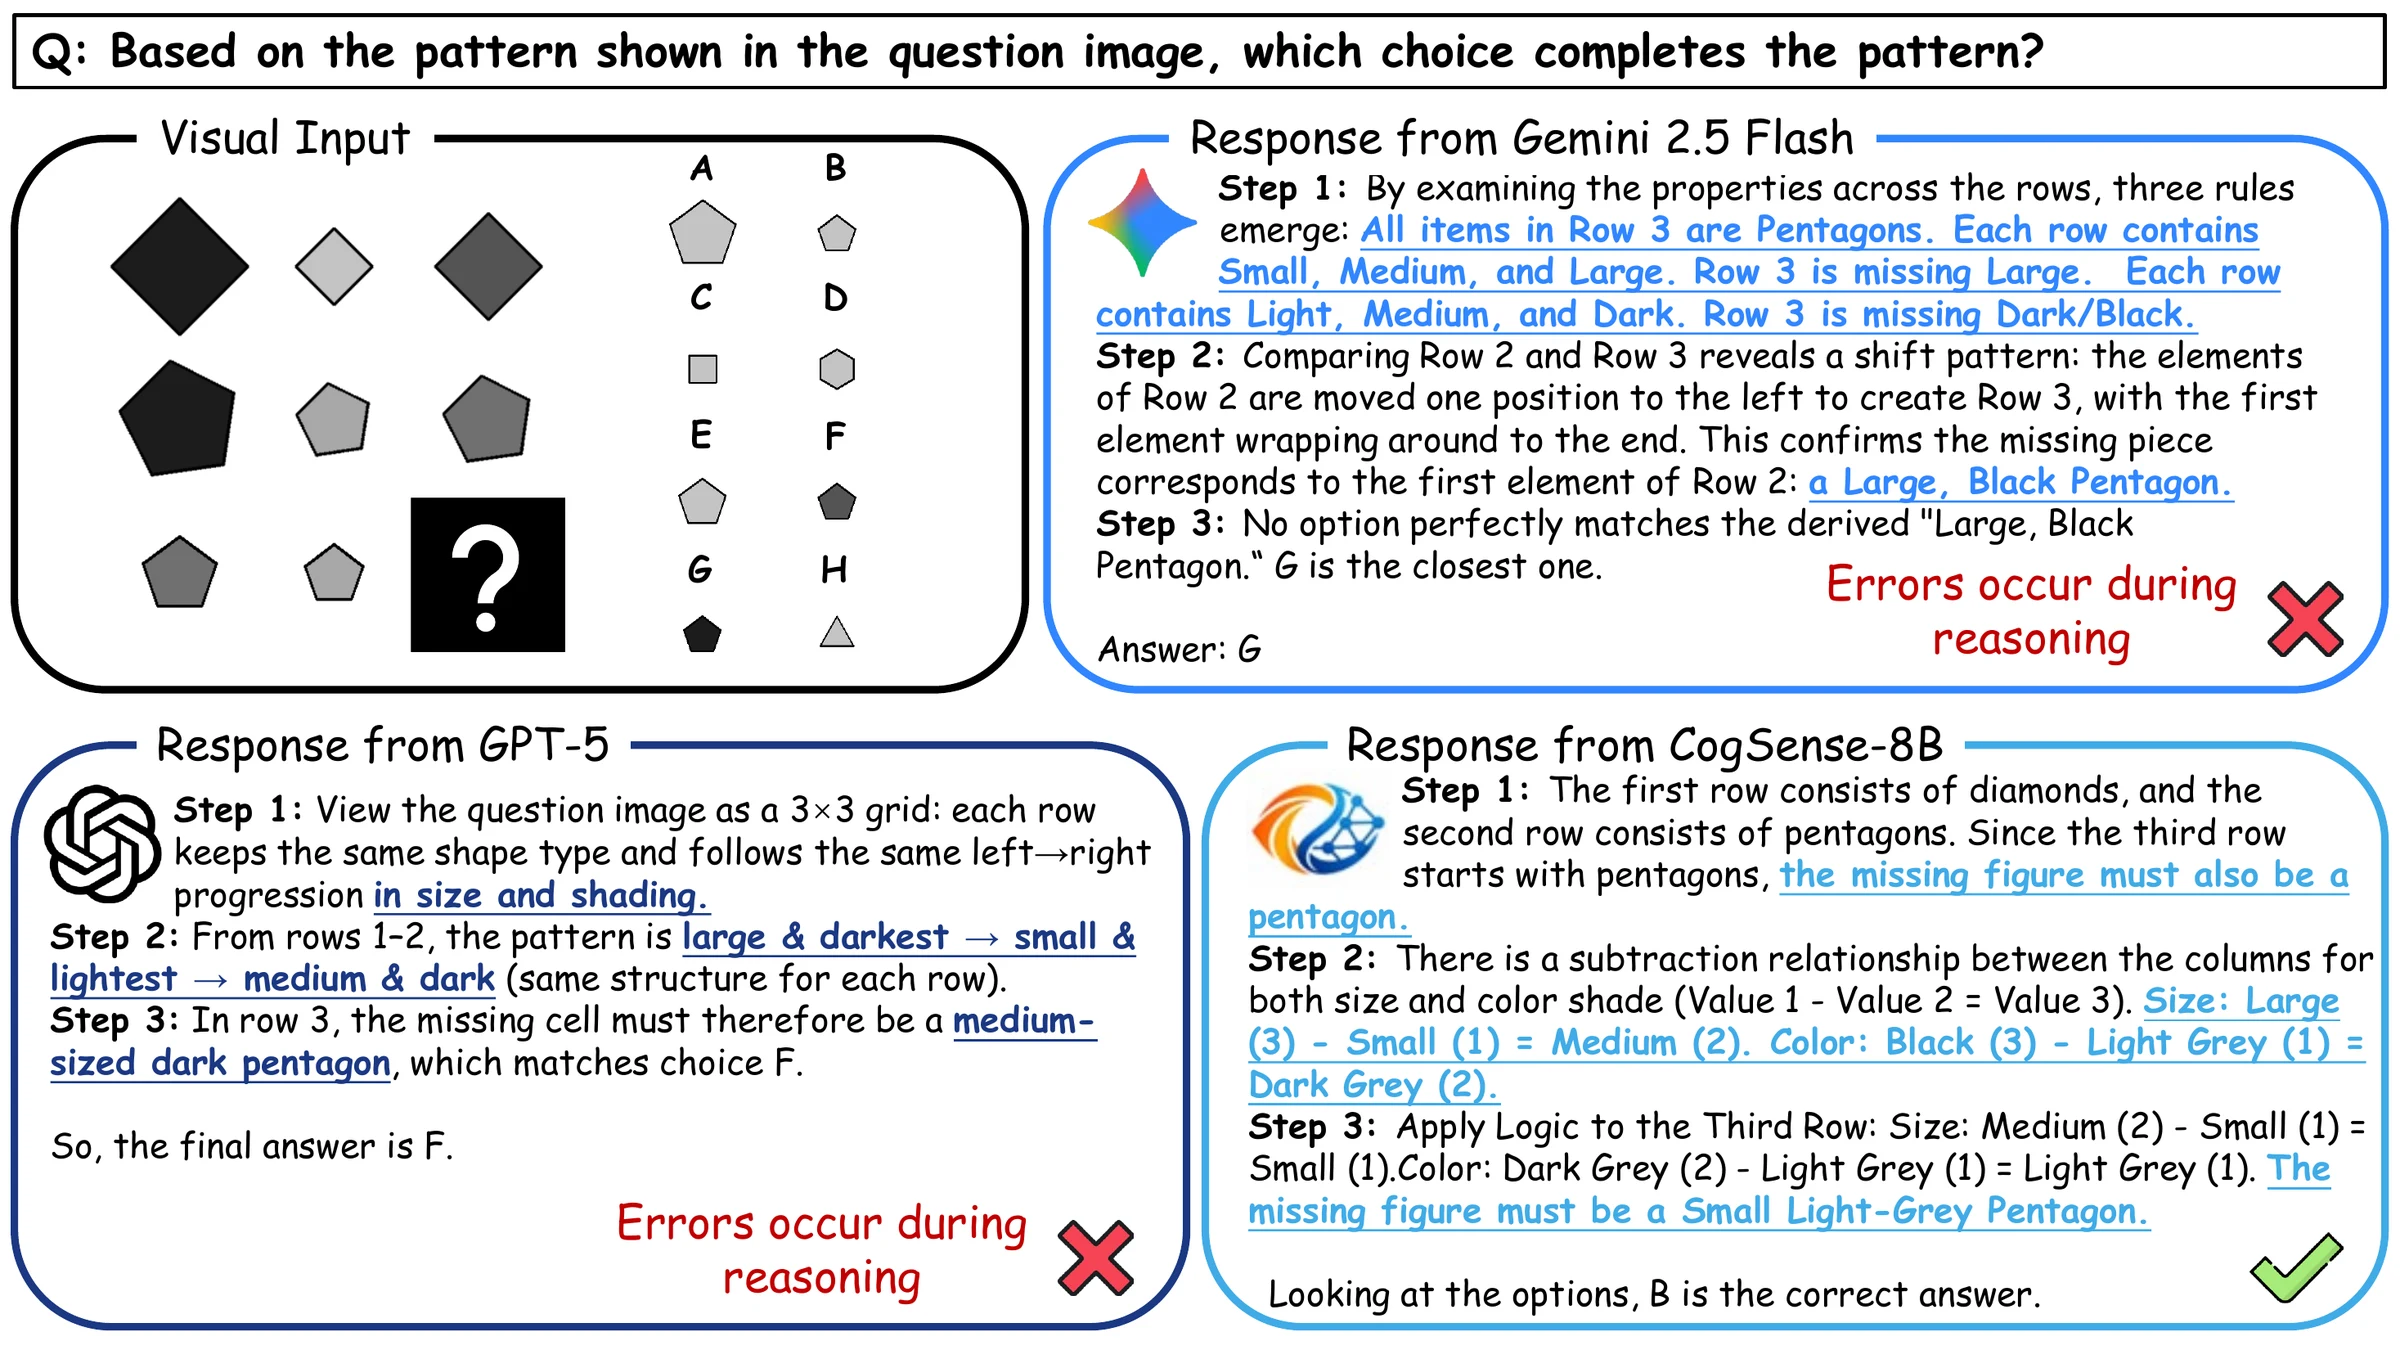
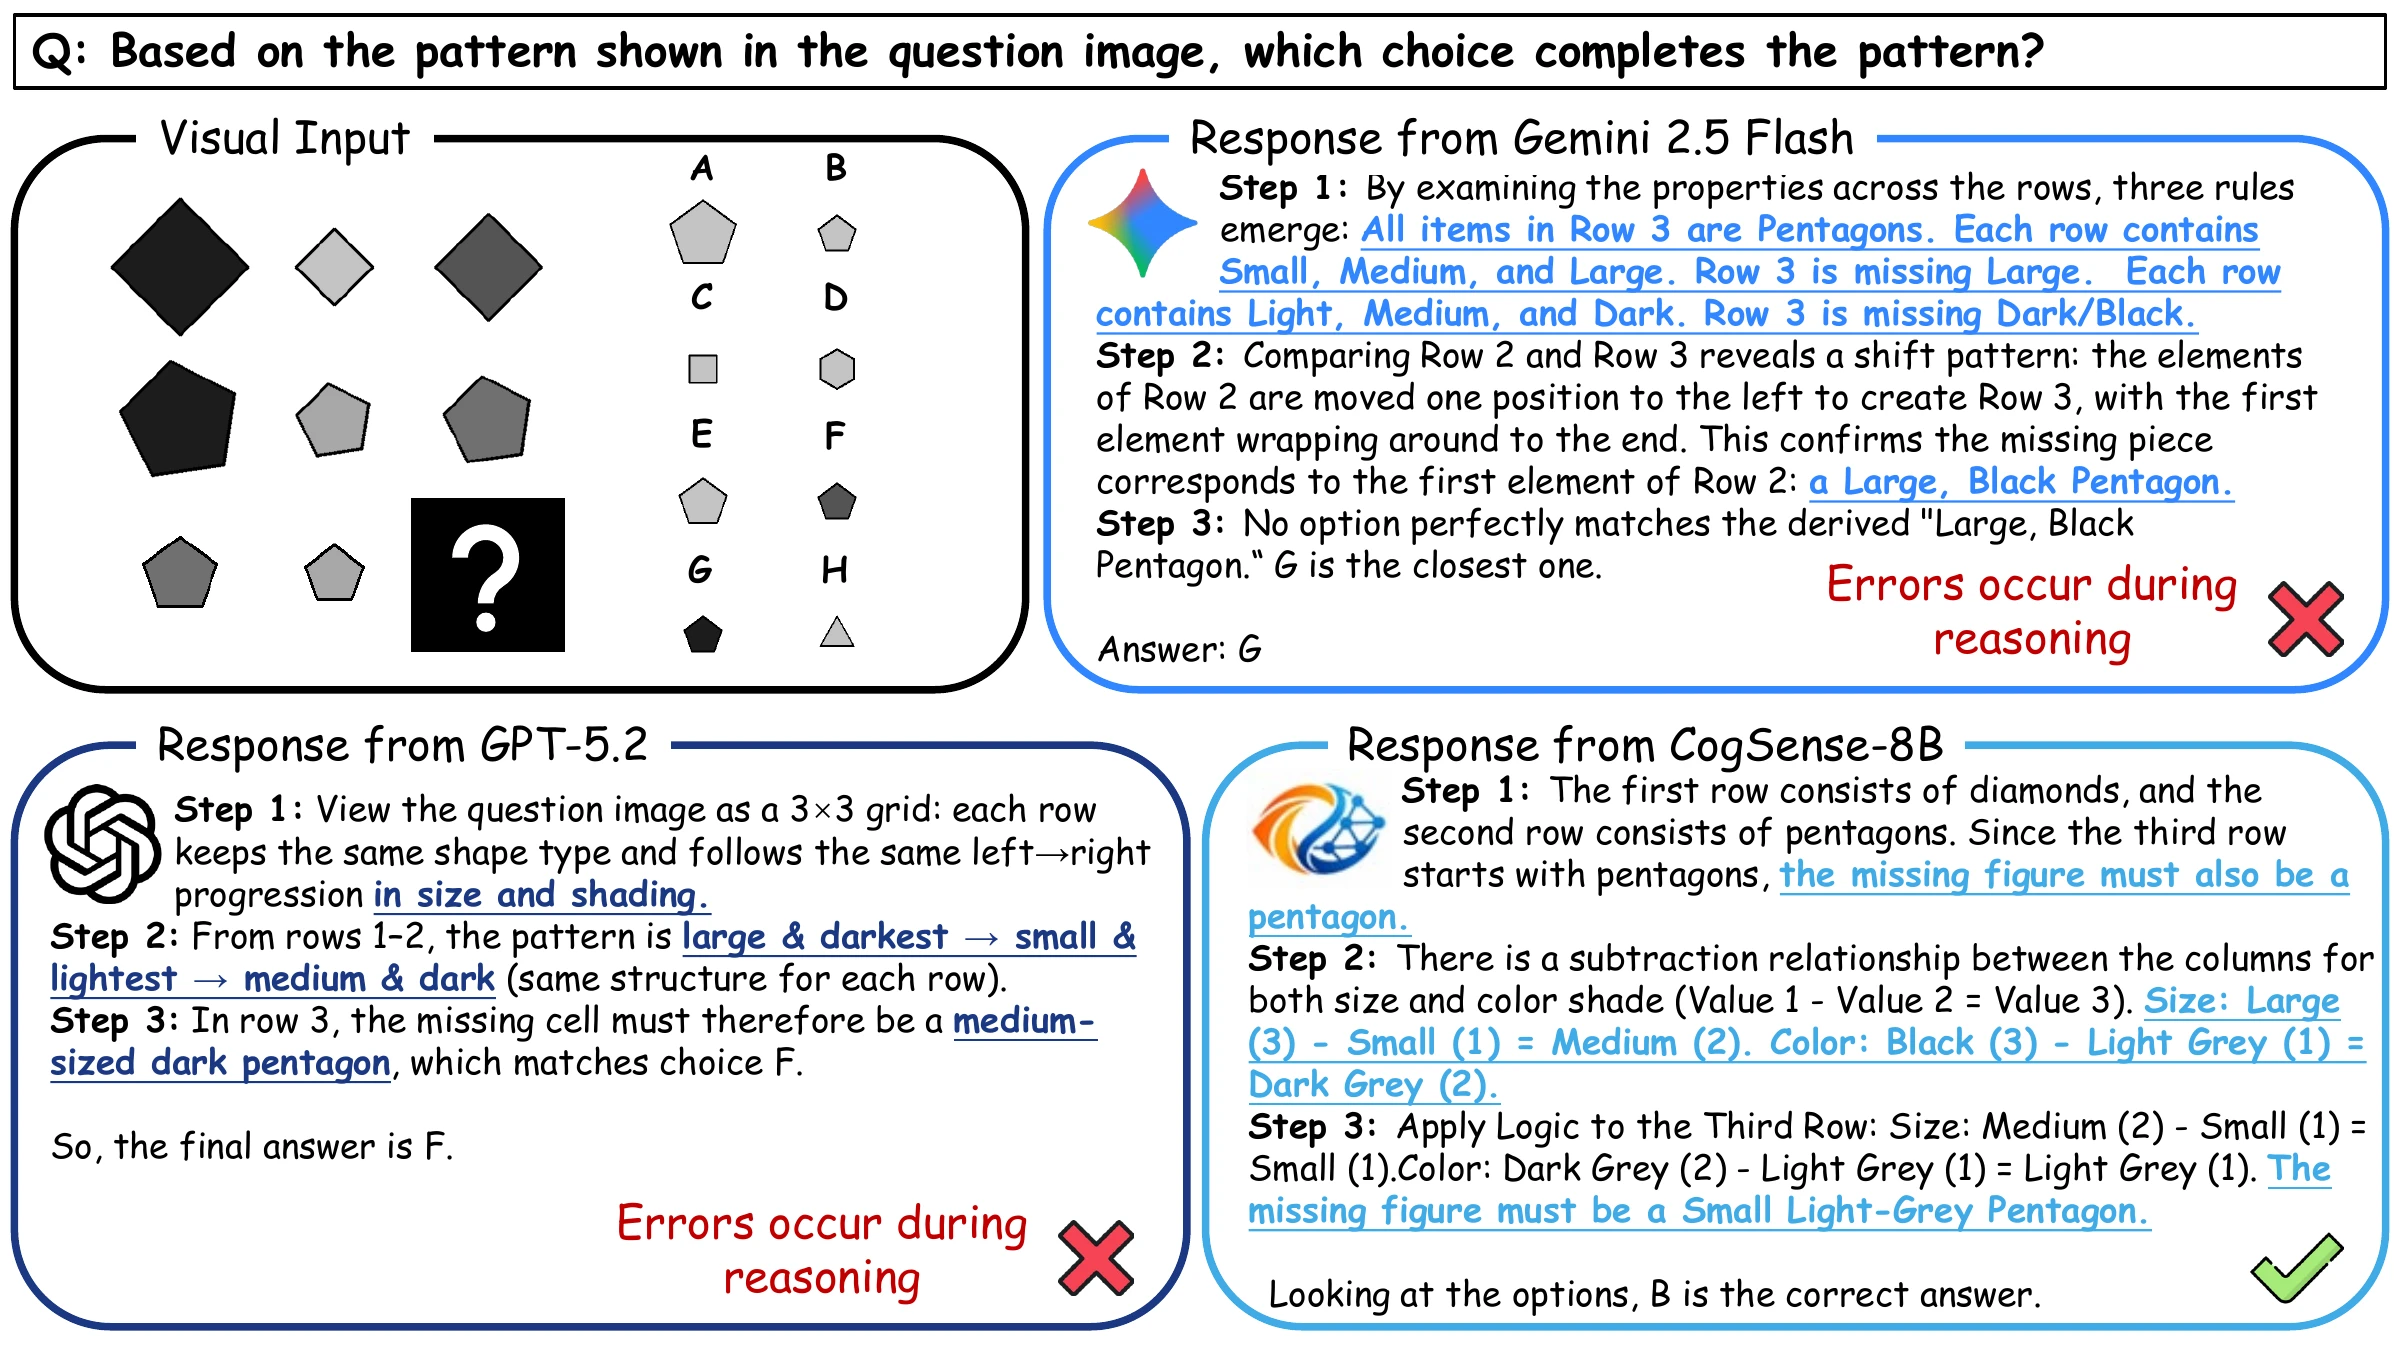
1

diff --git a/cogsense/index.html b/cogsense/index.html
@@ -417,7 +417,7 @@
       <button class="chip" aria-pressed="false" data-i="2">Example 3</button>
     </div>
     <div class="qstage" id="qstage">
-      <div class="figcard pad on"><img src="static/images/web/qual_1.webp" alt="Qualitative comparison of Gemini 2.5 Flash, GPT-5 and CogSense-8B on a matrix reasoning question" width="2400" height="1350" loading="lazy"></div>
+      <div class="figcard pad on"><img src="static/images/web/qual_1.webp" alt="Qualitative comparison of Gemini 2.5 Flash, GPT-5.2 and CogSense-8B on a matrix reasoning question" width="2400" height="1350" loading="lazy"></div>
       <div class="figcard pad"><img src="static/images/web/qual_2.webp" alt="Additional qualitative example" width="2400" height="1350" loading="lazy"></div>
       <div class="figcard pad"><img src="static/images/web/qual_3.webp" alt="Additional qualitative example" width="2400" height="1350" loading="lazy"></div>
     </div>
